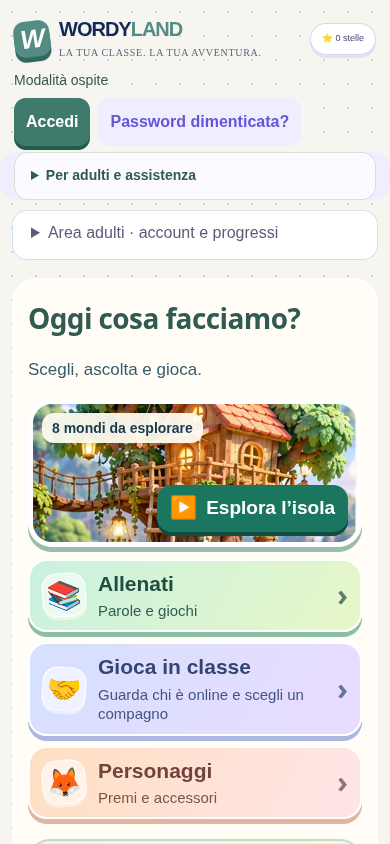
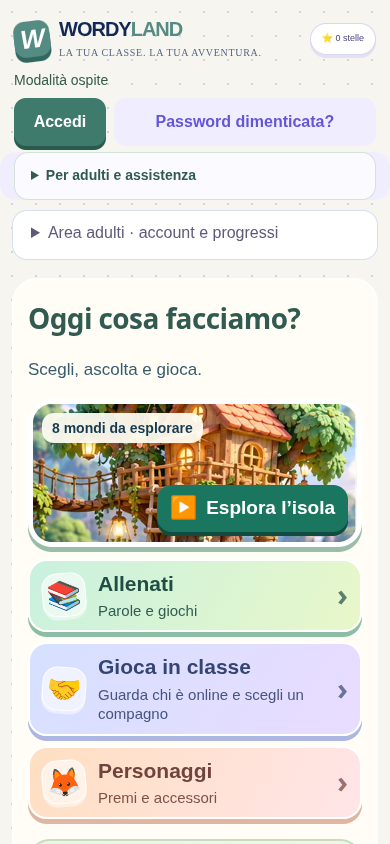
Keep guest actions and home entries visible when web fonts load

Changed region(s): [[0.0615, 0.0924, 0.8615, 0.1848]]

diff --git a/dist/index.html b/dist/index.html
@@ -1,4 +1,4 @@
-<!doctype html><html lang="it"><meta charset="utf-8"><meta name="viewport" content="width=device-width,initial-scale=1"><meta name="theme-color" content="#3e7c6b"><meta name="mobile-web-app-capable" content="yes"><meta name="apple-mobile-web-app-capable" content="yes"><meta name="apple-mobile-web-app-title" content="WordyLand"><link rel="manifest" href="manifest.webmanifest?v=5e1522f35a54"><link rel="apple-touch-icon" href="icon-192.png?v=1f9b3f6f1b02"><link rel="icon" href="icon-192.png?v=1f9b3f6f1b02"><link rel="stylesheet" href="pwa.css?v=987b976fe4a6"><script id="loadSupportGuard">
+<!doctype html><html lang="it"><meta charset="utf-8"><meta name="viewport" content="width=device-width,initial-scale=1"><meta name="theme-color" content="#3e7c6b"><meta name="mobile-web-app-capable" content="yes"><meta name="apple-mobile-web-app-capable" content="yes"><meta name="apple-mobile-web-app-title" content="WordyLand"><link rel="manifest" href="manifest.webmanifest?v=5e1522f35a54"><link rel="apple-touch-icon" href="icon-192.png?v=1f9b3f6f1b02"><link rel="icon" href="icon-192.png?v=1f9b3f6f1b02"><link rel="stylesheet" href="pwa.css?v=e869ec241dee"><script id="loadSupportGuard">
 /* ES5 guard: readable even when the main application cannot start. No tracking. */
 (function () {
  var failed = false;
@@ -56,4 +56,4 @@ body :is(button,a,input,select,textarea,summary,[tabindex]):focus-visible{outlin
 <div class="islandMapWrap"><nav class="heroPlayModes" aria-label="Prova un’attività"><button type="button" data-live-place="island" aria-pressed="true">🏝 Isola</button><button type="button" data-live-place="kart" aria-pressed="false">🏎 Kart</button><button type="button" data-live-place="football" aria-pressed="false">⚽ Calcio</button><button type="button" data-live-place="space" aria-pressed="false">🚀 Spazio</button></nav><div id="islandMap" class="islandMap" aria-label="Mappa tridimensionale di WordyLand"><div class="mapFallback"><span>🏝</span><b>La tua isola ti aspetta</b><p>Scegli un’avventura dai pulsanti qui sotto.</p></div></div><div class="heroSceneReadout"><p id="heroSceneStatus" role="status">Scegli un luogo o prova una delle attività.</p><div id="heroPlayground"></div><div id="heroSceneHUD" class="heroSceneHUD" hidden><button type="button" class="primary" id="heroSceneAction">Prova la scena</button><button type="button" class="audio" id="heroSceneLearn">Gioca in inglese →</button><small>Prova libera · i premi si conquistano nelle missioni.</small></div></div><div class="mapToolbar"><span>Trascina per ruotare · tocca per giocare</span><div><button type="button" id="islandLeft" aria-label="Ruota isola verso sinistra">↶</button><button type="button" id="islandRight" aria-label="Ruota isola verso destra">↷</button><button type="button" id="islandZoom" aria-label="Avvicina o allontana isola" aria-pressed="false">＋</button><button type="button" id="islandMotion" aria-label="Metti in pausa le animazioni" aria-pressed="false">Ⅱ</button><button type="button" id="islandSound" aria-label="Attiva i suoni" aria-pressed="false">🔇</button></div></div></div>
 <div class="islandHeroFooter"><span>NESSUNA FRETTA. OGNI SCOPERTA CONTA.</span><span>LA TUA CLASSE, UN’AVVENTURA INSIEME ✦</span></div></section><div class="progressSummary"><span>🏅 <b id="learned">0</b> parole riuscite almeno 3 volte senza aiuto</span><span>🎯 <b id="reviewCount">0</b> da ripassare</span></div><details class="practiceZone"><summary><span><small>IL BOX DI ALLENAMENTO</small><b>Vuoi fare un giro di pratica?</b></span><span class="practiceEnter">Entra →</span></summary><div class="explorerBar"><div><span id="avatarDisplay">🦊</span><b id="playerDisplay">Esploratore</b><span class="localLabel"> · soprannome della pratica su questo dispositivo</span></div><button id="editPlayer" class="audio">Cambia soprannome</button></div><div id="playerEditor" hidden><form id="playerForm"><label for="nickname">Il soprannome della pratica</label><input id="nickname" maxlength="20" autocomplete="off" placeholder="Come vuoi chiamarti?"><p>Questo soprannome resta su questo dispositivo: non cambia il nome del profilo o della classe. Il personaggio si sceglie nel guardaroba: <a href="#personaggi">Apri Personaggi →</a></p><button type="submit" class="primary">Salva soprannome</button><button type="button" class="audio" id="cancelPlayer">Chiudi</button></form></div><section class="worldSection" aria-labelledby="worldTitle"><div class="sectionHeading"><div><div class="eyebrow">SELEZIONE DEL CIRCUITO</div><h2 id="worldTitle">Scegli il tuo mondo.</h2></div><span class="worldHint">Sei mondi. Un’avventura tutta tua.</span></div><div id="worlds" class="worlds"></div></section><div class="layout"><aside><label for="category">Scegli le parole</label><select id="category"><option value="focus">🌱 Corpo · Ripasso mirato</option><option value="abc">📖 Quaderno · A–E</option><option value="fgh">📖 Quaderno · F–L</option><option value="mno">📖 Quaderno · M–S</option><option value="colors">🎨 Colori</option><option value="numbers">🔢 Numeri 1–8</option><option value="teens">🔢 Numeri 13–15</option><option value="toys">🧸 Giocattoli</option><option value="hello">👋 Presentazioni</option><option value="place">📦 Preposizioni di luogo</option><option value="body">👀 Il corpo</option><option value="school">✏ A scuola</option><option value="sentences">💬 Piccole frasi</option><option value="all">🌈 Tutte le parole</option><option value="custom">✏ Le mie parole</option></select><div class="modes"><button class="mode active" data-mode="journey" aria-pressed="true">🚀 Missione guidata<span>Guarda → completa → scrivi</span></button><button class="mode" data-mode="write">✏ Dettato<span>Ascolta e scrivi</span></button><button class="mode" data-mode="build">🧩 Componi<span>Metti in ordine</span></button><button class="mode" data-mode="match">🎧 Ascolta e trova<span>Scegli l’immagine</span></button><button class="mode" data-mode="paper">📓 Quaderno<span>Scrivi a mano</span></button><button class="mode" data-mode="look">👀 Scopri<span>Guarda e ascolta</span></button></div><label for="length">Quante parole vuoi provare?</label><select id="length"><option value="3">3 · Un piccolo passo</option><option value="5" selected>5 · La mia missione</option><option value="8">8 · Una sfida in più</option></select><button class="primary" id="start" style="width:100%;margin-top:14px">Giochiamo →</button><p class="note">☀ Piccole missioni su misura.<br>Nessun cronometro: prenditi il tuo tempo.</p></aside><section><div class="card" id="game"></div><div class="foot"><span style="font-size:28px">🧭</span><div><b>Piccoli giochi, grandi scoperte</b><p>Le parole del tuo quaderno: alfabeto, colori, numeri, giocattoli, corpo e frasi. Scopri, completa, componi e scrivi!</p></div></div></section></div></details><details><summary>Area adulti · parole e audio</summary><div class="settings"><p>Scegli 3, 5 oppure 8 parole per missione. L’aiuto mostra la grafia corretta e permette di riprovare. Le stelle premiano l’impegno, anche con aiuto. Come ospite, i progressi restano in questo browser. Con un account adulto puoi salvarli online nel profilo scelto. Le parole da ripassare vengono salvate tra una partita e l’altra. La scrittura a mano va confrontata con un adulto.</p><label for="voice">Voce inglese del dispositivo</label><select id="voice"></select><p id="audioStatus"></p><label for="customWords">Parole della scuola: inglese = italiano, una per riga</label><textarea id="customWords" rows="5" style="width:100%;padding:12px;border:1px solid #cad7c2;border-radius:10px" placeholder="book = libro&#10;pen = penna"></textarea><button class="primary" id="save">Salva parole</button><span id="saved" role="status"></span></div></details></main><footer>WordyLand · Un’avventura per ogni curiosità. Ascolta, gioca, scrivi.</footer>
 <script>document.getElementById("skipContent").onclick=function(event){event.preventDefault();document.getElementById("mainContent").focus();};</script>
-<script src="data.js?v=d20c5dc57ff7"></script><script src="worlds.js?v=a73cff1d13aa"></script><script src="learning.js?v=18a45b30731d"></script><script src="app.js?v=2c223dfd411d"></script><script src="accounts.js?v=cd25be85e476"></script><script src="classroom.js?v=7b0915587adc"></script><script src="presence.js?v=a49b6d89b853"></script><script src="arena.js?v=8304d14a9424"></script><script src="three.min.js?v=170c6789f432"></script><script src="island.js?v=56264151c609"></script><script src="study-import.js?v=b3ab8dff7bbd"></script><script src="quests.js?v=5708a46ae97b"></script><script src="arcade.js?v=6553b3f78232"></script><script src="community.js?v=c4b184a79714"></script><script src="training.js?v=fe6e7eefd6f0"></script><script src="pwa.js?v=1e8d89d8eb28"></script></html>
+<script src="data.js?v=d20c5dc57ff7"></script><script src="worlds.js?v=a73cff1d13aa"></script><script src="learning.js?v=18a45b30731d"></script><script src="app.js?v=2c223dfd411d"></script><script src="accounts.js?v=cd25be85e476"></script><script src="classroom.js?v=7b0915587adc"></script><script src="presence.js?v=a49b6d89b853"></script><script src="arena.js?v=8304d14a9424"></script><script src="three.min.js?v=170c6789f432"></script><script src="island.js?v=56264151c609"></script><script src="study-import.js?v=b3ab8dff7bbd"></script><script src="quests.js?v=5708a46ae97b"></script><script src="arcade.js?v=6553b3f78232"></script><script src="community.js?v=c4b184a79714"></script><script src="training.js?v=fe6e7eefd6f0"></script><script src="pwa.js?v=dacb766f71e5"></script></html>

diff --git a/dist/offline.html b/dist/offline.html
@@ -1,1 +1,1 @@
-<!doctype html><html lang="it"><head><meta charset="utf-8"><meta name="viewport" content="width=device-width,initial-scale=1"><meta name="theme-color" content="#3e7c6b"><title>WordyLand · Ripasso offline</title><link rel="stylesheet" href="pwa.css?v=987b976fe4a6"><link rel="icon" href="icon-192.png?v=1f9b3f6f1b02"></head><body class="offlineBody"><main class="offlineMain"><a href="/">← Torna a WordyLand</a><h1>Una piccola avventura, anche senza Internet.</h1><p class="offlineHint">Ripassiamo insieme! Questo allenamento non assegna monete o punti. Classi, sfide e progressi online saranno disponibili quando torna la connessione.</p><nav aria-label="Attività senza connessione" class="offlineModes"><button id="offlineRevisionOpen" type="button" aria-pressed="true">Ripasso illustrato</button><button id="offlineFoundationOpen" type="button" aria-pressed="false">Lettere e spelling</button></nav><section class="offlineCard" id="offlineRevision"><label for="offlineTopic">Che cosa vuoi ripassare?</label><select id="offlineTopic"><option value="focus">👀 Il corpo</option><option value="counting">🔢 Contiamo fino a dieci</option><option value="mousepositions">🐭 Preposizioni di luogo</option><option value="animals">🐾 Gli animali</option><option value="colors">🎨 I colori</option></select><div id="offlineWork" aria-live="polite"><p>Preparo gli esercizi…</p></div><div id="offlineFeedback" role="status"></div><button id="offlineNext" hidden>Un’altra parola →</button></section><section id="offlineFoundation" class="offlineCard" hidden aria-label="Allenamento offline"><h2 tabindex="-1">Lettere, parole e spelling</h2><p class="offlineHint">Ospite: si salva solo in questo browser.</p><details class="offlinePrivacy"><summary>Per l’adulto · salvataggio locale</summary><p>Questo percorso ospite salva le attività solo in questo browser, anche se prima avevi effettuato un accesso. Non le invia al profilo online o all’area genitori. Su un dispositivo condiviso sono visibili a chi lo usa.</p></details><p id="offlineFoundationStatus" role="status" aria-live="polite"></p><div id="offlineFoundationWork"></div></section><p class="offlineHint">La voce usa le voci inglesi disponibili sul dispositivo e potrebbe richiedere Internet.</p></main><script src="learning.js?v=18a45b30731d"></script><script src="offline.js?v=87a2a70e7367"></script></body></html>
+<!doctype html><html lang="it"><head><meta charset="utf-8"><meta name="viewport" content="width=device-width,initial-scale=1"><meta name="theme-color" content="#3e7c6b"><title>WordyLand · Ripasso offline</title><link rel="stylesheet" href="pwa.css?v=e869ec241dee"><link rel="icon" href="icon-192.png?v=1f9b3f6f1b02"></head><body class="offlineBody"><main class="offlineMain"><a href="/">← Torna a WordyLand</a><h1>Una piccola avventura, anche senza Internet.</h1><p class="offlineHint">Ripassiamo insieme! Questo allenamento non assegna monete o punti. Classi, sfide e progressi online saranno disponibili quando torna la connessione.</p><nav aria-label="Attività senza connessione" class="offlineModes"><button id="offlineRevisionOpen" type="button" aria-pressed="true">Ripasso illustrato</button><button id="offlineFoundationOpen" type="button" aria-pressed="false">Lettere e spelling</button></nav><section class="offlineCard" id="offlineRevision"><label for="offlineTopic">Che cosa vuoi ripassare?</label><select id="offlineTopic"><option value="focus">👀 Il corpo</option><option value="counting">🔢 Contiamo fino a dieci</option><option value="mousepositions">🐭 Preposizioni di luogo</option><option value="animals">🐾 Gli animali</option><option value="colors">🎨 I colori</option></select><div id="offlineWork" aria-live="polite"><p>Preparo gli esercizi…</p></div><div id="offlineFeedback" role="status"></div><button id="offlineNext" hidden>Un’altra parola →</button></section><section id="offlineFoundation" class="offlineCard" hidden aria-label="Allenamento offline"><h2 tabindex="-1">Lettere, parole e spelling</h2><p class="offlineHint">Ospite: si salva solo in questo browser.</p><details class="offlinePrivacy"><summary>Per l’adulto · salvataggio locale</summary><p>Questo percorso ospite salva le attività solo in questo browser, anche se prima avevi effettuato un accesso. Non le invia al profilo online o all’area genitori. Su un dispositivo condiviso sono visibili a chi lo usa.</p></details><p id="offlineFoundationStatus" role="status" aria-live="polite"></p><div id="offlineFoundationWork"></div></section><p class="offlineHint">La voce usa le voci inglesi disponibili sul dispositivo e potrebbe richiedere Internet.</p></main><script src="learning.js?v=18a45b30731d"></script><script src="offline.js?v=87a2a70e7367"></script></body></html>

diff --git a/dist/pwa.css b/dist/pwa.css
@@ -157,6 +157,10 @@ html[data-account-verification="pending"] #total,html[data-account-verification=
 .startHub .todayQuest{margin-top:8px}.startHub .trainingEntry,.startHub .holidayPortal,.startHub .prepositionsFeature{margin-top:0;margin-bottom:0}
 @media(max-width:650px){
  header{padding-top:12px;padding-bottom:12px}.accountToolbar{margin-bottom:6px}.accountToolbar[data-mode=guest] .accountSessionLabel{font-size:14px;line-height:1.25}.adultNavigation{margin-top:6px;margin-bottom:6px}.adultNavigation>summary{min-height:48px;padding-top:10px;padding-bottom:10px}.accountArea:not([open])>summary{min-height:48px;padding-top:10px;padding-bottom:10px}
+ /* Keep both guest actions on one row when the optional font becomes ready. */
+ .accountToolbar[data-mode=guest]{display:grid;grid-template-columns:minmax(72px,.7fr) minmax(0,2fr);align-items:stretch}
+ .accountToolbar[data-mode=guest] .accountSessionLabel,.accountToolbar[data-mode=guest] #accessStatus{grid-column:1/-1}
+ .accountToolbar[data-mode=guest] button{min-width:0;width:100%;padding:10px 8px;line-height:1.25;white-space:normal;overflow-wrap:anywhere}
  .startHub{grid-template-columns:minmax(0,1fr);gap:12px;padding:18px 14px}.startHub>h1{font-size:29px}.startHub>p{font-size:17px;line-height:1.4}
  .startHub>.welcomeIsland{grid-column:1;min-height:148px}.startHub>.startChoices{grid-column:1;gap:10px}
  .startHub .startChoices a{min-height:72px;padding:10px 30px 10px 12px;gap:12px}.startHub .startChoices a>span:first-child{height:44px;width:44px;flex-basis:44px;font-size:28px}.startHub .startChoices b{font-size:21px}.startHub .startChoices small{font-size:15px;line-height:1.3}

diff --git a/dist/sw.js b/dist/sw.js
@@ -1,6 +1,6 @@
 /* Public offline revision only. API calls, accounts and private documents never enter CacheStorage. */
-const CACHE_NAME='wordyland-offline-6a4851d30df04bc8';
-const ASSETS={"/offline.html":"offline.html?v=9b8eb062e336","/learning.js":"learning.js?v=18a45b30731d","/offline.js":"offline.js?v=87a2a70e7367","/pwa.css":"pwa.css?v=987b976fe4a6","/curriculum.json":"curriculum.json?v=caec47ff5b7d","/training.json":"training.json?v=4a7ed2a91a57","/manifest.webmanifest":"manifest.webmanifest?v=5e1522f35a54","/icon-192.png":"icon-192.png?v=1f9b3f6f1b02","/icon-512.png":"icon-512.png?v=73f342b30736","/icon-maskable-512.png":"icon-maskable-512.png?v=73f342b30736"};
+const CACHE_NAME='wordyland-offline-0b16fc624c751700';
+const ASSETS={"/offline.html":"offline.html?v=5c5b5a430652","/learning.js":"learning.js?v=18a45b30731d","/offline.js":"offline.js?v=87a2a70e7367","/pwa.css":"pwa.css?v=e869ec241dee","/curriculum.json":"curriculum.json?v=caec47ff5b7d","/training.json":"training.json?v=4a7ed2a91a57","/manifest.webmanifest":"manifest.webmanifest?v=5e1522f35a54","/icon-192.png":"icon-192.png?v=1f9b3f6f1b02","/icon-512.png":"icon-512.png?v=73f342b30736","/icon-maskable-512.png":"icon-maskable-512.png?v=73f342b30736"};
 const assetURL=path=>new URL(ASSETS[path],self.registration.scope).href;
 self.addEventListener('install',event=>{
  event.waitUntil(caches.open(CACHE_NAME).then(cache=>cache.addAll(Object.keys(ASSETS).map(path=>new Request(assetURL(path),{cache:'reload',credentials:'omit'})))));

diff --git a/dist/pwa.js b/dist/pwa.js
@@ -9,7 +9,7 @@
   document.head.append(fonts);
  },0),{once:true});
  const install=document.querySelector('#installApp'),help=document.querySelector('#installHelp'),status=document.querySelector('#appStatus'),update=document.querySelector('#appUpdate'),reload=document.querySelector('#updateApp');
- const workerURL='sw.js?v=2a880c44ffd3';
+ const workerURL='sw.js?v=12e402bc1083';
  let prompt=null,registration=null,reloading=false,reloadRequired=false,hadController=!!navigator.serviceWorker?.controller;
  const standalone=()=>matchMedia('(display-mode: standalone)').matches||navigator.standalone===true;
  function installation(){install.hidden=standalone();if(standalone())help.hidden=true;install.textContent=prompt?'Installa WordyLand':'Come installare';}

diff --git a/docs/GAME_DESIGN_2026_11_02.md b/docs/GAME_DESIGN_2026_11_02.md
@@ -45,4 +45,8 @@ La matrice ha individuato una regressione del nuovo feedback: dopo due errori le
 
 Le prove di elfo e premi rivelano ora il pannello prima di verificare il suo canvas: nessuna geometria, costo o condizione del calendario è stata esclusa. Il test del vecchio ingresso dell’hero usa il proprio contenitore per distinguerlo dal nuovo ingresso illustrato, verificato separatamente. Nessun retry automatico o soglia aumentata.
 
+La prima CI del nuovo lotto (`41475582231`, commit `f5e5460`) ha passato verify ma fallito la visibilità dei tre ingressi a 320px. La causa è stata riprodotta localmente confrontando i font di ripiego e gli originali DM Sans/Outfit: il pulsante Password dimenticata passava su una riga separata, aumentando la barra account da 73,5 a 129,5px. Il terzo ingresso scendeva da y810,94 a y866,94, oltre gli 844px disponibili. La barra ospite mobile usa ora due colonne esplicite: il testo può andare a capo dentro il pulsante, mantenendo font e bersagli da almeno 48px. Entrambi gli stati dei font mantengono la barra a 73,5px e il terzo ingresso a y810,94. Conferma anche a 390/768/1360px. Non sono state tolte azioni o indicazioni di accesso.
+
+La diagnosi ha usato copie temporanee dei font dal repository ufficiale Google Fonts, soltanto in una fixture locale: nessun nuovo font, servizio o pacchetto è stato aggiunto al prodotto. La regressione ora aspetta il font realmente pronto e registra le misure prima dell’assert, mantenendone la condizione originale. La nuova CI deve ripetere l’intera matrice; il run fallito resta documentato e non conta come successo.
+
 [Copertura e misure](GAME_UPGRADE_VERIFICATION_2026_11_02.json). Il collaudo locale usa due browser isolati e la misura di prestazioni separata a CPU tranquilla; non viene presentato come una matrice unica se i digest differiscono. La CI del commit esatto ripete tutti i 35 controlli e le 46 suite browser in sequenza, con gli stessi limiti temporali. Le misure sintetiche non certificano il tablet originale, la pronuncia reale o l’invio di email.
